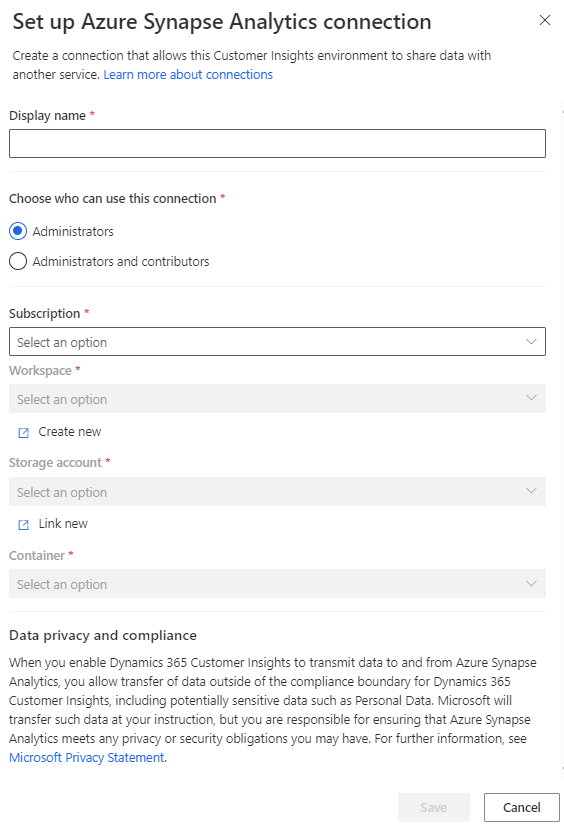
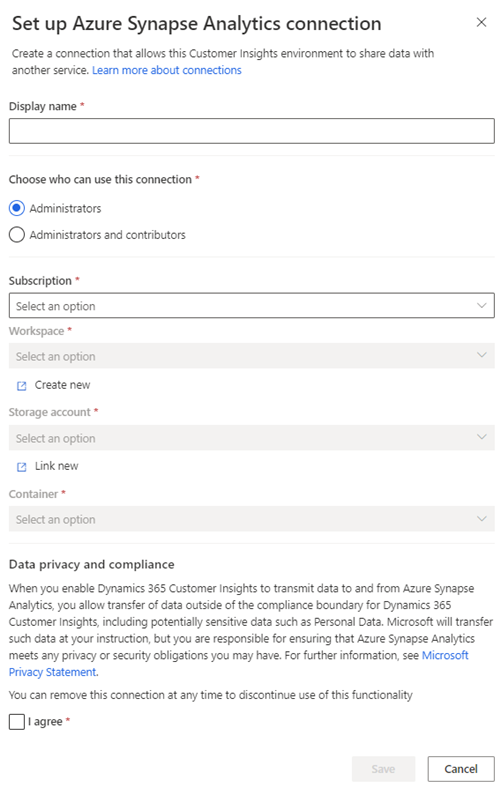
custom models Synapse

diff --git a/ci-docs/custom-models.md b/ci-docs/custom-models.md
@@ -1,7 +1,7 @@
 ---
 title: "Custom machine learning models from Azure Machine Learning"
 description: "Work with custom models from Azure Machine Learning in Dynamics 365 Customer Insights."
-ms.date: 11/8/2022
+ms.date: 11/9/2022
 ms.reviewer: v-wendysmith
 
 ms.subservice: audience-insights
@@ -17,20 +17,18 @@ searchScope:
 # Custom machine learning models from Azure Machine Learning
 
 > [!NOTE]
-> Support for Machine Learning Studio (classic) will end on 31 August 2024. We recommend you transition to [Azure Machine Learning](/azure/machine-learning/overview-what-is-azure-machine-learning) by that date.
+> Support for Machine Learning Studio (classic) will end on August 31, 2024. We recommend you transition to [Azure Machine Learning](/azure/machine-learning/overview-what-is-azure-machine-learning) by that date.
 >
-> You can no longer create new Machine Learning Studio (classic) resources. Through 31 August 2024, you can continue to use the existing Machine Learning Studio (classic) resources. For more information, see [Migrate to Azure Machine Learning](/azure/machine-learning/migrate-overview).  
+> You can no longer create new Machine Learning Studio (classic) resources. Through August 31, 2024, you can continue to use the existing Machine Learning Studio (classic) resources. For more information, see [Migrate to Azure Machine Learning](/azure/machine-learning/migrate-overview).  
 
-Azure Machine Learning (AML) v2 lets you manage workflows based on AML models. Workflows help you choose the data you want to generate insights from and map the results to your unified customer data. For more information about building custom ML models, see [Use Azure Machine Learning-based models](azure-machine-learning-experiments.md).
+ Manage workflows based on Azure Machine Learning (AML) v2 models. Workflows help you choose the data you want to generate insights from and map the results to your unified customer data. For more information, see [Use Azure Machine Learning-based models](azure-machine-learning-experiments.md).
 
 ## Prerequisites
 
 - Workspace: An [AML workspace with pipeline](/azure/machine-learning/concept-ml-pipelines). Obtain the Tenant, Workspace, Pipeline, Output Path, and Output Datasource name.
-
 - Access privileges:
-  - For your AML workspace with pipeline: Owner or User Access administrator privileges. For more information, see [Azure roles](/azure/role-based-access-control/rbac-and-directory-admin-roles).
-  - For your Customer Insights environment: Admin or Contributor privileges.
-
+  - AML workspace with pipeline: Owner or User Access administrator privileges. For more information, see [Azure roles](/azure/role-based-access-control/rbac-and-directory-admin-roles).
+  - Customer Insights environment: Admin or Contributor privileges.
 - Storage account: An [Azure Data Lake Gen2 storage account](/azure/storage/blobs/data-lake-storage-quickstart-create-account) associated with your Azure Studio instance.
 
   > [!NOTE]
@@ -46,8 +44,8 @@ Azure Machine Learning (AML) v2 lets you manage workflows based on AML models. W
 
 1. Enter connection information.
 
-   - **Display name**: A unique, recognizable name that describes this connection. Must start with a letter and contain only letters, numbers, and underscores.
-   - **Tenant**: The tenant linked to your AML workspace.
+   - **Display name**: A unique, recognizable name that describes this connection which starts with a letter and contains only letters, numbers, and underscores.
+   - **Tenant**: The tenant linked to your AML workspace. Sign in if prompted.
    - **Workspace**: The AML workspace.
 
    :::image type="content" source="media/AML-connection.png" alt-text="Screenshot of the Azure Machine Learning connection page.":::
@@ -64,7 +62,7 @@ Azure Machine Learning (AML) v2 lets you manage workflows based on AML models. W
 
 1. Select the information about the connection:
 
-   - **Connection**: A connection to your AML workspace. To set up a new connection, select [**Add connection**](#set-up-an-aml-connection).
+   - **Connection**: A connection to your AML workspace or select [**Add connection**](#set-up-an-aml-connection) to set up a new one.
    - **Pipeline**: A pipeline linked to your AML workspace.
    - **Output Path**: The output path linked to your pipeline.
    - **Output Datastore**: The output datastore linked to your pipeline.
@@ -78,7 +76,7 @@ Azure Machine Learning (AML) v2 lets you manage workflows based on AML models. W
    - **Name**: A recognizable name for the model.
    - **Output entity name**: An output entity name for the pipeline output results.
    - **Primary key**: The attribute you want as the primary key for your output entity.
-   - **Customer ID**: The matching attribute that corresponds to the Customer Insight Customer ID.
+   - **Customer ID**: The matching attribute that corresponds to the Customer Insights Customer ID.
 
    :::image type="content" source="media/custom-model-AML-wizard1.png" alt-text="Custom model AML Model name page.":::
 
@@ -86,55 +84,17 @@ Azure Machine Learning (AML) v2 lets you manage workflows based on AML models. W
 
 1. In the **Required data** step, select **Add data**.
 
-1. Enter the data to use for your custom model and select **Save**.
+1. Add the data to use for your custom model. Map all the attributes in the data and select **Save**.
+
+   > [!NOTE]
+   > You can save and come back to this step but you can't run the model successfully unless all attributes are mapped. Adding optional attributes is not supported. If you want to edit the attributes, change them in your AML workspace.
 
 1. Select **Next**.
 
 1. In the **Review and run** step, review the model details and make changes if necessary.
 
-1. Select **Save and run**. The **My predictions** page displays.
+1. Select **Save and run**. The **My predictions** tab displays while the model is being created.
 
-## Manage an existing workflow
-
-1. Go to **Intelligence** and select the **My predictions** tab.
-
-1. Select the vertical ellipsis (&vellip;) next to a model to view available actions.
-
-   - **Edit** a workflow to change the model configuration or the connection.
-   - **Refresh** a workflow on demand. The workflow also runs automatically with every [scheduled refresh](schedule-refresh.md).
-   - **Delete** a workflow. The entity used to create the workflow is not deleted.
-
-## View the results
-
-Results from a workflow are stored in the entity name defined for **Model Output Parameters**. Access this data from the [**Data** > **Entities** page](entities.md) or with [API access](apis.md).
-
-### API Access
-
-For the specific OData query to get data from a custom model entity, use the following format:
-
-`https://api.ci.ai.dynamics.com/v1/instances/<your instance id>/data/<custom model output entity name>%3Ffilter%3DCustomerId%20eq%20'<guid value>'`
-
-1. Replace `<your instance id>` with the ID of your Customer Insights environment, which displays in the address bar of your browser when accessing Customer Insights.
-
-1. Replace `<custom model output entity>` with the entity name you provided for the **Model Output Parameters**.
-
-1. Replace `<guid value>` with the Customer ID of the customer you'd like to access. This ID displays on the [customer profiles page](customer-profiles.md) in the CustomerID field.
-
-## Frequently Asked Questions
-
-- Why can't I see my pipeline when setting up a custom model workflow?
-  This issue is frequently caused by a configuration issue in the pipeline. Ensure the [input parameter is configured](azure-machine-learning-experiments.md#dataset-configuration), and the [output datastore and path parameters](azure-machine-learning-experiments.md#import-pipeline-data-into-customer-insights) are also configured.
-
-- What does the error "Couldn't save intelligence workflow" mean? 
-  Users usually see this error message if they don't have Owner or User Access Administrator privileges on the workspace. The user needs a higher level of permissions to enable Customer Insights to process the workflow as a service rather than using the user credentials for subsequent runs of the workflow.
-
-- Is a private endpoint / private link for my custom model workflow supported?
-  Customer Insights does not currently support private endpoint for custom models out of the box, but a manual workaround is available. Please contact support for details.
-
-## Responsible AI
-
-Predictions offer capabilities to create better customer experiences, improve business capabilities, and revenue streams. We strongly recommend you balance the value of your prediction against the impact it has and biases that may be introduced in an ethical manner. Learn more about how Microsoft is [addressing Responsible AI](https://www.microsoft.com/ai/responsible-ai?activetab=pivot1%3aprimaryr6). You can also learn about [techniques and processes for responsible machine learning](/azure/machine-learning/concept-responsible-ml) specific to Azure Machine Learning.
-
-> [!VIDEO https://www.microsoft.com/en-us/videoplayer/embed/RWRElk]
+[!INCLUDE [manage-include](includes/custom-models-manage.md)]
 
 [!INCLUDE [footer-include](includes/footer-banner.md)]

diff --git a/ci-docs/custom-models-synapse.md b/ci-docs/custom-models-synapse.md
@@ -1,7 +1,7 @@
 ---
 title: "Custom machine learning models from Azure Synapse"
 description: "Work with custom models from Azure Synapse in Dynamics 365 Customer Insights."
-ms.date: 11/8/2022
+ms.date: 11/9/2022
 ms.reviewer: v-wendysmith
 
 ms.subservice: audience-insights
@@ -16,11 +16,23 @@ searchScope:
 
 # Custom machine learning models from Azure Synapse
 
+Manage workflows based on Azure Synapse Analytics models. Workflows help you choose the data you want to generate insights from and map the results to your unified customer data. For more information, see [Machine learning in Azure Synapse Analytics](/azure/synapse-analytics/machine-learning/what-is-machine-learning).
+
 ## Prerequisites
 
-- Workspace: An Azure Synapse workspace
+- Workspace: An [Azure Synapse workspace](/azure/synapse-analytics/get-started-create-workspace). Obtain the Tenant, Workspace, Pipeline, Output Path, and Output Datasource name.
+- Subscription: An active Azure subscription.
+- Access privileges for Customer Insights environment and Azure Synapse workspace:
+  - Admin or Contributor privileges for your Customer Insights environment
+  - On the resource group where the Azure Synapse workspace is located, the service principal and the Azure AD user with Admin permissions in Customer Insights must be assigned at least **Reader** [permissions](/azure/role-based-access-control/role-assignments-portal).
+  - The Azure AD user with Admin permissions in Customer Insights has **Storage Blob Data Contributor** permissions on the Azure Data Lake Storage Gen2 account where the data is located and linked to the Azure Synapse workspace. Learn more about [using the Azure portal to assign an Azure role for access to blob and queue data](/azure/storage/common/storage-auth-aad-rbac-portal) and [Storage Blob Data Contributor permissions](/azure/role-based-access-control/built-in-roles#storage-blob-data-contributor).
+  - The [Azure Synapse workspace managed identity](/azure/synapse-analytics/security/synapse-workspace-managed-identity) has **Storage Blob Data Contributor** permissions on the Azure Data Lake Storage Gen2 account where the data is located and linked to the Azure Synapse workspace.
+  - On the Azure Synapse workspace, the service principal for Customer Insights has **Synapse Administrator** role assigned.
+  - If your Customer Insights environment stores data in your [own Azure Data Lake Storage](own-data-lake-storage.md), the user who sets up the connection to Azure Synapse Analytics has at least the built-in **Reader** role on the Data Lake Storage account. For more information, see [Assign Azure roles using the Azure portal](/azure/role-based-access-control/role-assignments-portal).
+- Storage account: An [Azure Data Lake Gen2 storage account](/azure/storage/blobs/data-lake-storage-quickstart-create-account) associated with your Azure Synapse workspace.
 
-- Storage account: An [Azure Data Lake Gen2 storage account](/azure/storage/blobs/data-lake-storage-quickstart-create-account) associated with your Azure Studio instance.
+> [!NOTE]
+> Data is transferred between your Customer Insights instances and the selected Azure web services or pipelines in the workflow. When you transfer data to an Azure service, please ensure that service is configured to process data in the manner and location necessary to comply with any legal or regulatory requirements for that data for your organization.
 
 ## Set up a Synapse connection
 
@@ -30,19 +42,58 @@ searchScope:
 
 1. Select **Set up** on the **Azure Synapse Analytics** tile.
 
-1. Enter the following information.
+1. Enter connection information.
 
-   :::image type="content" source="media/Synapse-connection.png" alt-text="Screenshot of the Azure Synapse Analytics connection page.":::
+   - **Display name**: A unique, recognizable name that describes this connection which starts with a letter and contains only letters, numbers, and underscores.
+   - **Choose who can use this connection**: Administrators only or administrators and contributors.
+   - **Subscription**: An Azure Synapse subscription.
+   - **Workspace**: An Azure Synapse workspace or select [**Create new**](/azure/synapse-analytics/quickstart-create-workspace) to create a new one.
+   - **Storage account**: An Azure storage account or select [**Link new**](/azure/storage/common/storage-account-create?bc=%2Fazure%2Fsynapse-analytics%2Fbreadcrumb%2Ftoc.json&tabs=azure-portal) to link to a new one.
+   - **Container**: A container within the selected storage account.
 
-   - **Display name**: A unique, recognizable name that describes this connection. Must start with a letter and contain only letters, numbers, and underscores.
-   - **Choose who can use this connection**: Select administrators only or administrators and contributors.
-   - **Subscription**: The Azure Synapse subscription to use for the custom model. 
-   - **Workspace**: The Synapse workspace. To set up a new workspace, select [**Create new**](/azure/synapse-analytics/quickstart-create-workspace).
-   - **Storage account**: The Synapse storage account. To set up a new account, select [**Link new**](/azure/storage/common/storage-account-create?bc=%2Fazure%2Fsynapse-analytics%2Fbreadcrumb%2Ftoc.json&tabs=azure-portal).
-   - **Container**: The container within the storage account.
-
+   :::image type="content" source="media/synapse-connection.png" alt-text="Screenshot of the Azure Machine Learning connection page.":::
+  
 1. Review the data privacy and compliance and select **I agree**.
 
 1. Select **Save**.
 
 ## Add a new workflow
+
+1. Go to the **Intelligence** page.
+
+1. On the **Create** tab, select **Use model** on the **Custom model (Azure Machine Learning v2)** tile.
+
+1. Select the information about the connection:
+
+   - **Connection**: A connection to your Azure Synapse workspace or select [**Add connection**](#set-up-a-Synapse-connection) to set up a new one.
+   - **Pipeline**: A pipeline linked to your Azure Synapse workspace.
+
+1. Select **Get started**.
+
+1. In the **Model name** step, enter the following information:
+
+   - **Name**: A recognizable name for the model.
+   - **Output entity name**: An output entity name for the pipeline output results.
+   - **Primary key**: The attribute you want as the primary key for your output entity.
+   - **Customer ID**: The matching attribute that corresponds to the Customer Insights Customer ID.
+
+   :::image type="content" source="media/custom-model-Synapse-wizard.png" alt-text="Screenshot of the Azure Synapse Model page.":::
+  
+1. Select **Next**.
+
+1. In the **Required data** step, select **Add data**.
+
+1. Add the data to use for your custom model. Map all the attributes in the data and select **Save**.
+
+   > [!NOTE]
+   > You can save and come back to this step but you can't run the model successfully unless all attributes are mapped. Adding optional attributes is not supported. If you want to edit the attributes, change them in your Azure Synapse workspace.
+
+1. Select **Next**.
+
+1. In the **Review and run** step, review the model details and make changes if necessary.
+
+1. Select **Save and run**. The **My predictions** tab displays while the model is being created.
+
+[!INCLUDE [manage-include](includes/custom-models-manage.md)]
+
+[!INCLUDE [footer-include](includes/footer-banner.md)]

diff --git a/ci-docs/includes/custom-models-manage.md b/ci-docs/includes/custom-models-manage.md
@@ -1,0 +1,40 @@
+
+## Manage an existing workflow
+
+1. Go to **Intelligence** and select the **My predictions** tab.
+
+1. Select the vertical ellipsis (&vellip;) next to a model to view available actions.
+
+   - **Edit** a workflow to change the model configuration or the connection.
+   - **Refresh** a workflow on demand. The workflow also runs automatically with every [scheduled refresh](schedule-refresh.md).
+   - **Delete** a workflow. The entity used to create the workflow is not deleted.
+
+## View the results
+
+Results from a workflow are stored in the **Output entity name** you defined. Access this data from the [**Data** > **Entities** page](entities.md) or with [API access](apis.md).
+
+### API Access
+
+For the specific OData query to get data from a custom model entity, use the following format:
+
+`https://api.ci.ai.dynamics.com/v1/instances/<your instance id>/data/<custom model output entity name>%3Ffilter%3DCustomerId%20eq%20'<guid value>'`
+
+1. Replace `<your instance id>` with the ID of your Customer Insights environment, which displays in the address bar of your browser when accessing Customer Insights.
+
+1. Replace `<custom model output entity>` with the entity name you provided during the **Model name** step.
+
+1. Replace `<guid value>` with the Customer ID of the customer you'd like to access. This ID displays on the [customer profiles page](customer-profiles.md) in the CustomerID field.
+
+## Frequently Asked Questions
+
+- Why can't I see my pipeline when setting up a custom model workflow?
+  This issue is frequently caused by a configuration issue in the pipeline. Ensure the [input parameter is configured](azure-machine-learning-experiments.md#dataset-configuration) and the [output datastore and path parameters](azure-machine-learning-experiments.md#import-pipeline-data-into-customer-insights) are also configured.
+
+- What does the error "Couldn't save intelligence workflow" mean? 
+
+- Can I use a private endpoint with my custom model from Azure Machine Learning?
+  Customer Insights does not currently support private endpoints with custom models out of the box. Please contact support for details.
+
+## Responsible AI
+
+Predictions offer capabilities to create better customer experiences, improve business capabilities, and revenue streams. We strongly recommend you balance the value of your prediction against the impact it has and biases that may be introduced in an ethical manner. Learn more about how Microsoft is [addressing Responsible AI](https://www.microsoft.com/ai/responsible-ai?activetab=pivot1%3aprimaryr6). You can also learn about [techniques and processes for responsible machine learning](/azure/machine-learning/concept-responsible-ml) specific to Azure Machine Learning.
